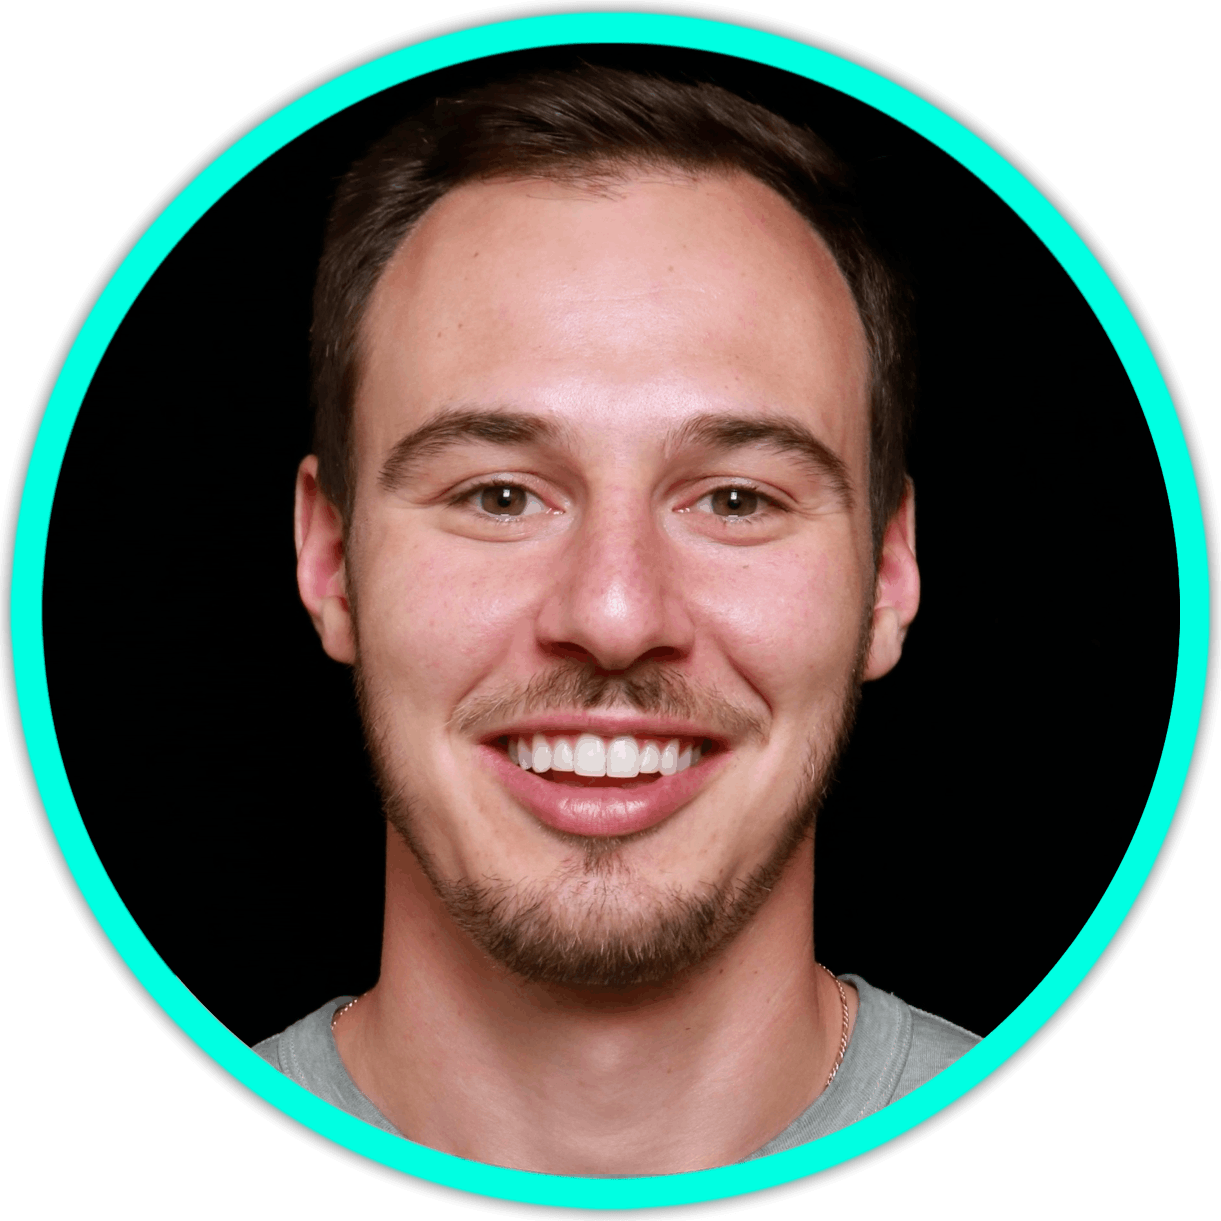
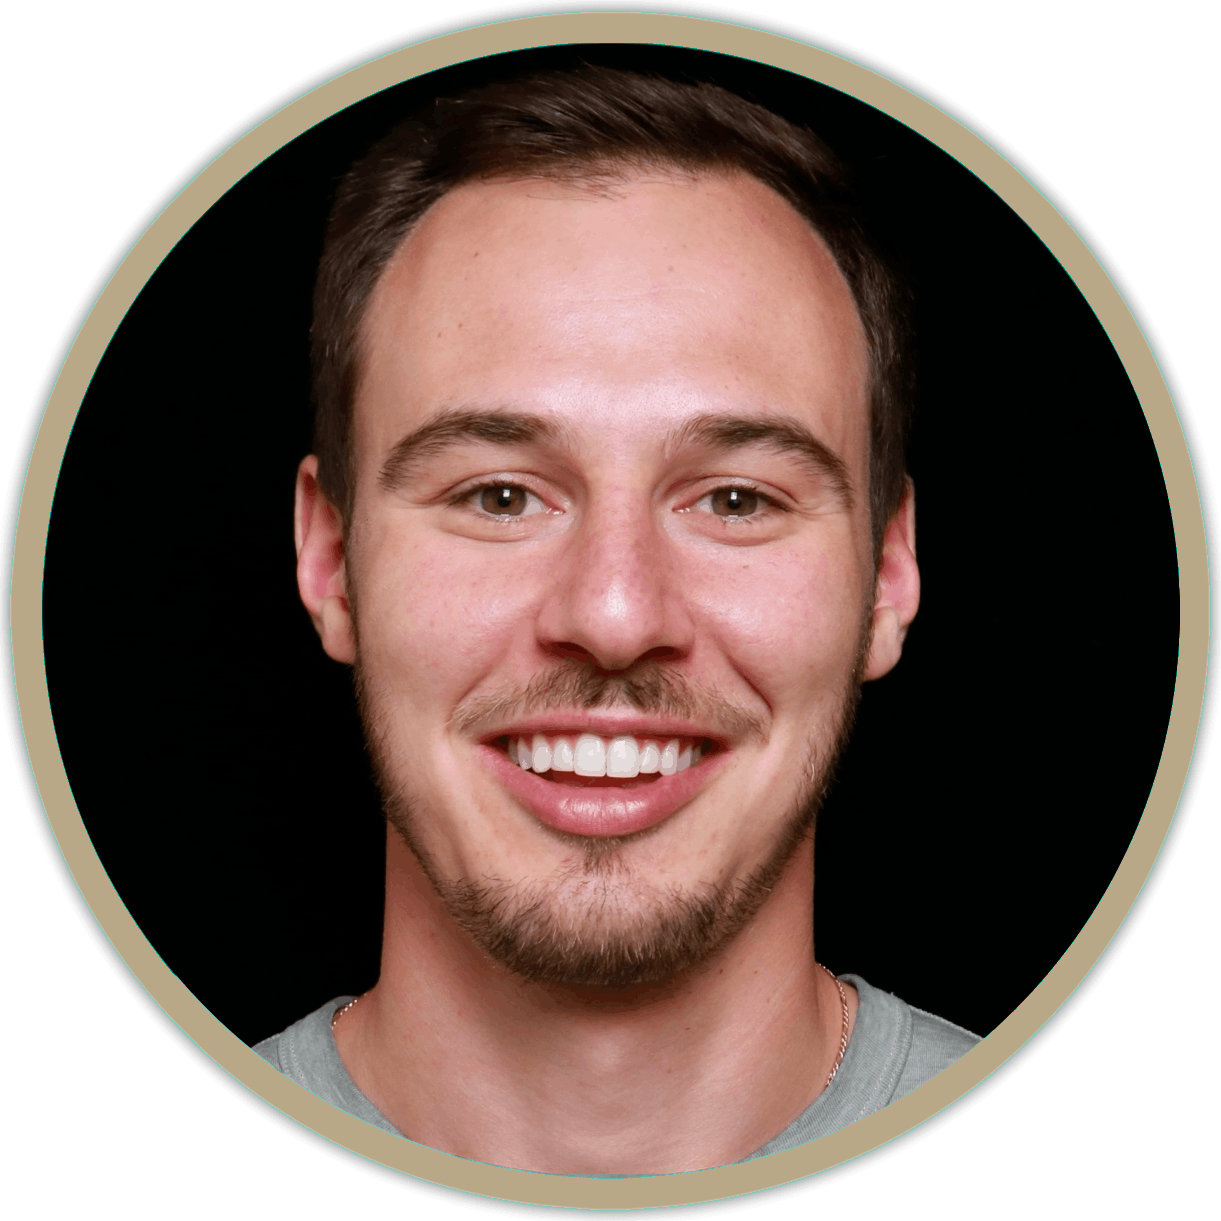
Sync resume page with neutral palette and add headshot recolor script
- Update resume.css theme variables to match the warm sand + sage palette used on the main site
- Recolor the resume headshot border from teal to warm sand
- Add a Pillow-based scripts/recolor_headshot_border.py for future border swaps

Changed region(s): [[0.0, 0.0, 0.9959, 0.9959]]

diff --git a/public/styles/resume.css b/public/styles/resume.css
@@ -1,8 +1,10 @@
 [data-theme="dark"] {
-    --main-green: #00bba2;
-    --main-green-translucent: rgba(0, 187, 162, 0.4);
-    --background-one: #002723;
-    --background-two: #00071a;
+    --main-green: #b8a888;
+    --main-green-translucent: rgba(184, 168, 136, 0.4);
+    --background-one: #1c1a17;
+    --background-two: #0d0c0a;
+    --background-accent: #3d2a18;
+    --background-glow: #4a3a55;
     --nav-link: #cccccc;
     --nav-link-hover: white;
     --footer-colour: white;
@@ -12,10 +14,12 @@
 }
 
 [data-theme="light"] {
-    --main-green: #00bba2;
-    --main-green-translucent: rgba(0, 187, 162, 0.4);
-    --background-one: #01c5b2;
-    --background-two: #0076bb;
+    --main-green: #6b7a5a;
+    --main-green-translucent: rgba(107, 122, 90, 0.4);
+    --background-one: #f0e7d6;
+    --background-two: #d8c9a3;
+    --background-accent: #b8c4a3;
+    --background-glow: #e6c8a8;
     --nav-link: #ffffff;
     --nav-link-hover: #dadada;
     --footer-colour: black;

diff --git a/scripts/recolor_headshot_border.py b/scripts/recolor_headshot_border.py
@@ -1,0 +1,108 @@
+#!/usr/bin/env python3
+"""Recolor the circular border around a headshot image.
+
+Replaces every pixel matching a target border color (within a tolerance) with
+a new color, preserving the original alpha channel so anti-aliased edges still
+look smooth. Writes both PNG and WEBP variants alongside the source.
+
+Examples
+--------
+Recolor with auto-detected border color (uses the most common saturated color):
+
+    python3 scripts/recolor_headshot_border.py public/img/headshots/amazon_2026.png \
+        --to "#b8a888"
+
+Specify the source border color explicitly:
+
+    python3 scripts/recolor_headshot_border.py public/img/headshots/amazon_2026.png \
+        --from "#00ffe2" --to "#b8a888" --tolerance 80
+"""
+
+from __future__ import annotations
+
+import argparse
+import sys
+from pathlib import Path
+
+try:
+    from PIL import Image
+except ImportError:
+    sys.exit("PIL/Pillow required. Install with: pip install Pillow")
+
+
+def parse_hex(value: str) -> tuple[int, int, int]:
+    v = value.lstrip("#")
+    if len(v) != 6:
+        raise argparse.ArgumentTypeError(f"expected 6-digit hex (e.g. #ff5500), got {value!r}")
+    return int(v[0:2], 16), int(v[2:4], 16), int(v[4:6], 16)
+
+
+def detect_border_color(im: Image.Image, min_saturation: int = 120) -> tuple[int, int, int]:
+    """Return the most common saturated, opaque color — usually the border."""
+    im = im.convert("RGBA")
+    pixel_counts = im.getcolors(maxcolors=im.size[0] * im.size[1])
+    if not pixel_counts:
+        raise RuntimeError("could not enumerate image colors (image too large)")
+    # Sort by frequency, look for first saturated, opaque color
+    pixel_counts.sort(key=lambda x: x[0], reverse=True)
+    for count, (r, g, b, a) in pixel_counts:
+        if a < 240:
+            continue
+        # Saturation proxy: max channel - min channel
+        if max(r, g, b) - min(r, g, b) >= min_saturation:
+            return r, g, b
+    raise RuntimeError("no saturated color found — pass --from explicitly")
+
+
+def recolor(im: Image.Image, target: tuple[int, int, int], new: tuple[int, int, int], tolerance: int) -> tuple[Image.Image, int]:
+    im = im.convert("RGBA")
+    pixels = im.load()
+    w, h = im.size
+    tr, tg, tb = target
+    nr, ng, nb = new
+    count = 0
+    for y in range(h):
+        for x in range(w):
+            r, g, b, a = pixels[x, y]
+            if abs(r - tr) < tolerance and abs(g - tg) < tolerance and abs(b - tb) < tolerance:
+                pixels[x, y] = (nr, ng, nb, a)
+                count += 1
+    return im, count
+
+
+def main() -> int:
+    parser = argparse.ArgumentParser(description=__doc__, formatter_class=argparse.RawDescriptionHelpFormatter)
+    parser.add_argument("input", type=Path, help="Source image (PNG or WEBP)")
+    parser.add_argument("--to", dest="new_color", type=parse_hex, required=True, help="New border color, hex e.g. #b8a888")
+    parser.add_argument("--from", dest="src_color", type=parse_hex, default=None, help="Source border color (auto-detected if omitted)")
+    parser.add_argument("--tolerance", type=int, default=80, help="Color match tolerance per channel (default: 80)")
+    parser.add_argument("--webp-quality", type=int, default=90, help="WEBP quality 0-100 (default: 90)")
+    parser.add_argument("--no-webp", action="store_true", help="Skip writing the .webp variant")
+    args = parser.parse_args()
+
+    if not args.input.exists():
+        print(f"error: input not found: {args.input}", file=sys.stderr)
+        return 1
+
+    im = Image.open(args.input)
+    src = args.src_color or detect_border_color(im)
+    print(f"source border color: #{src[0]:02x}{src[1]:02x}{src[2]:02x}")
+    print(f"new border color:    #{args.new_color[0]:02x}{args.new_color[1]:02x}{args.new_color[2]:02x}")
+
+    out, count = recolor(im, src, args.new_color, args.tolerance)
+    print(f"recolored {count:,} pixels")
+
+    png_path = args.input.with_suffix(".png")
+    out.save(png_path)
+    print(f"wrote {png_path}")
+
+    if not args.no_webp:
+        webp_path = args.input.with_suffix(".webp")
+        out.save(webp_path, "WEBP", quality=args.webp_quality, method=6)
+        print(f"wrote {webp_path}")
+
+    return 0
+
+
+if __name__ == "__main__":
+    raise SystemExit(main())
